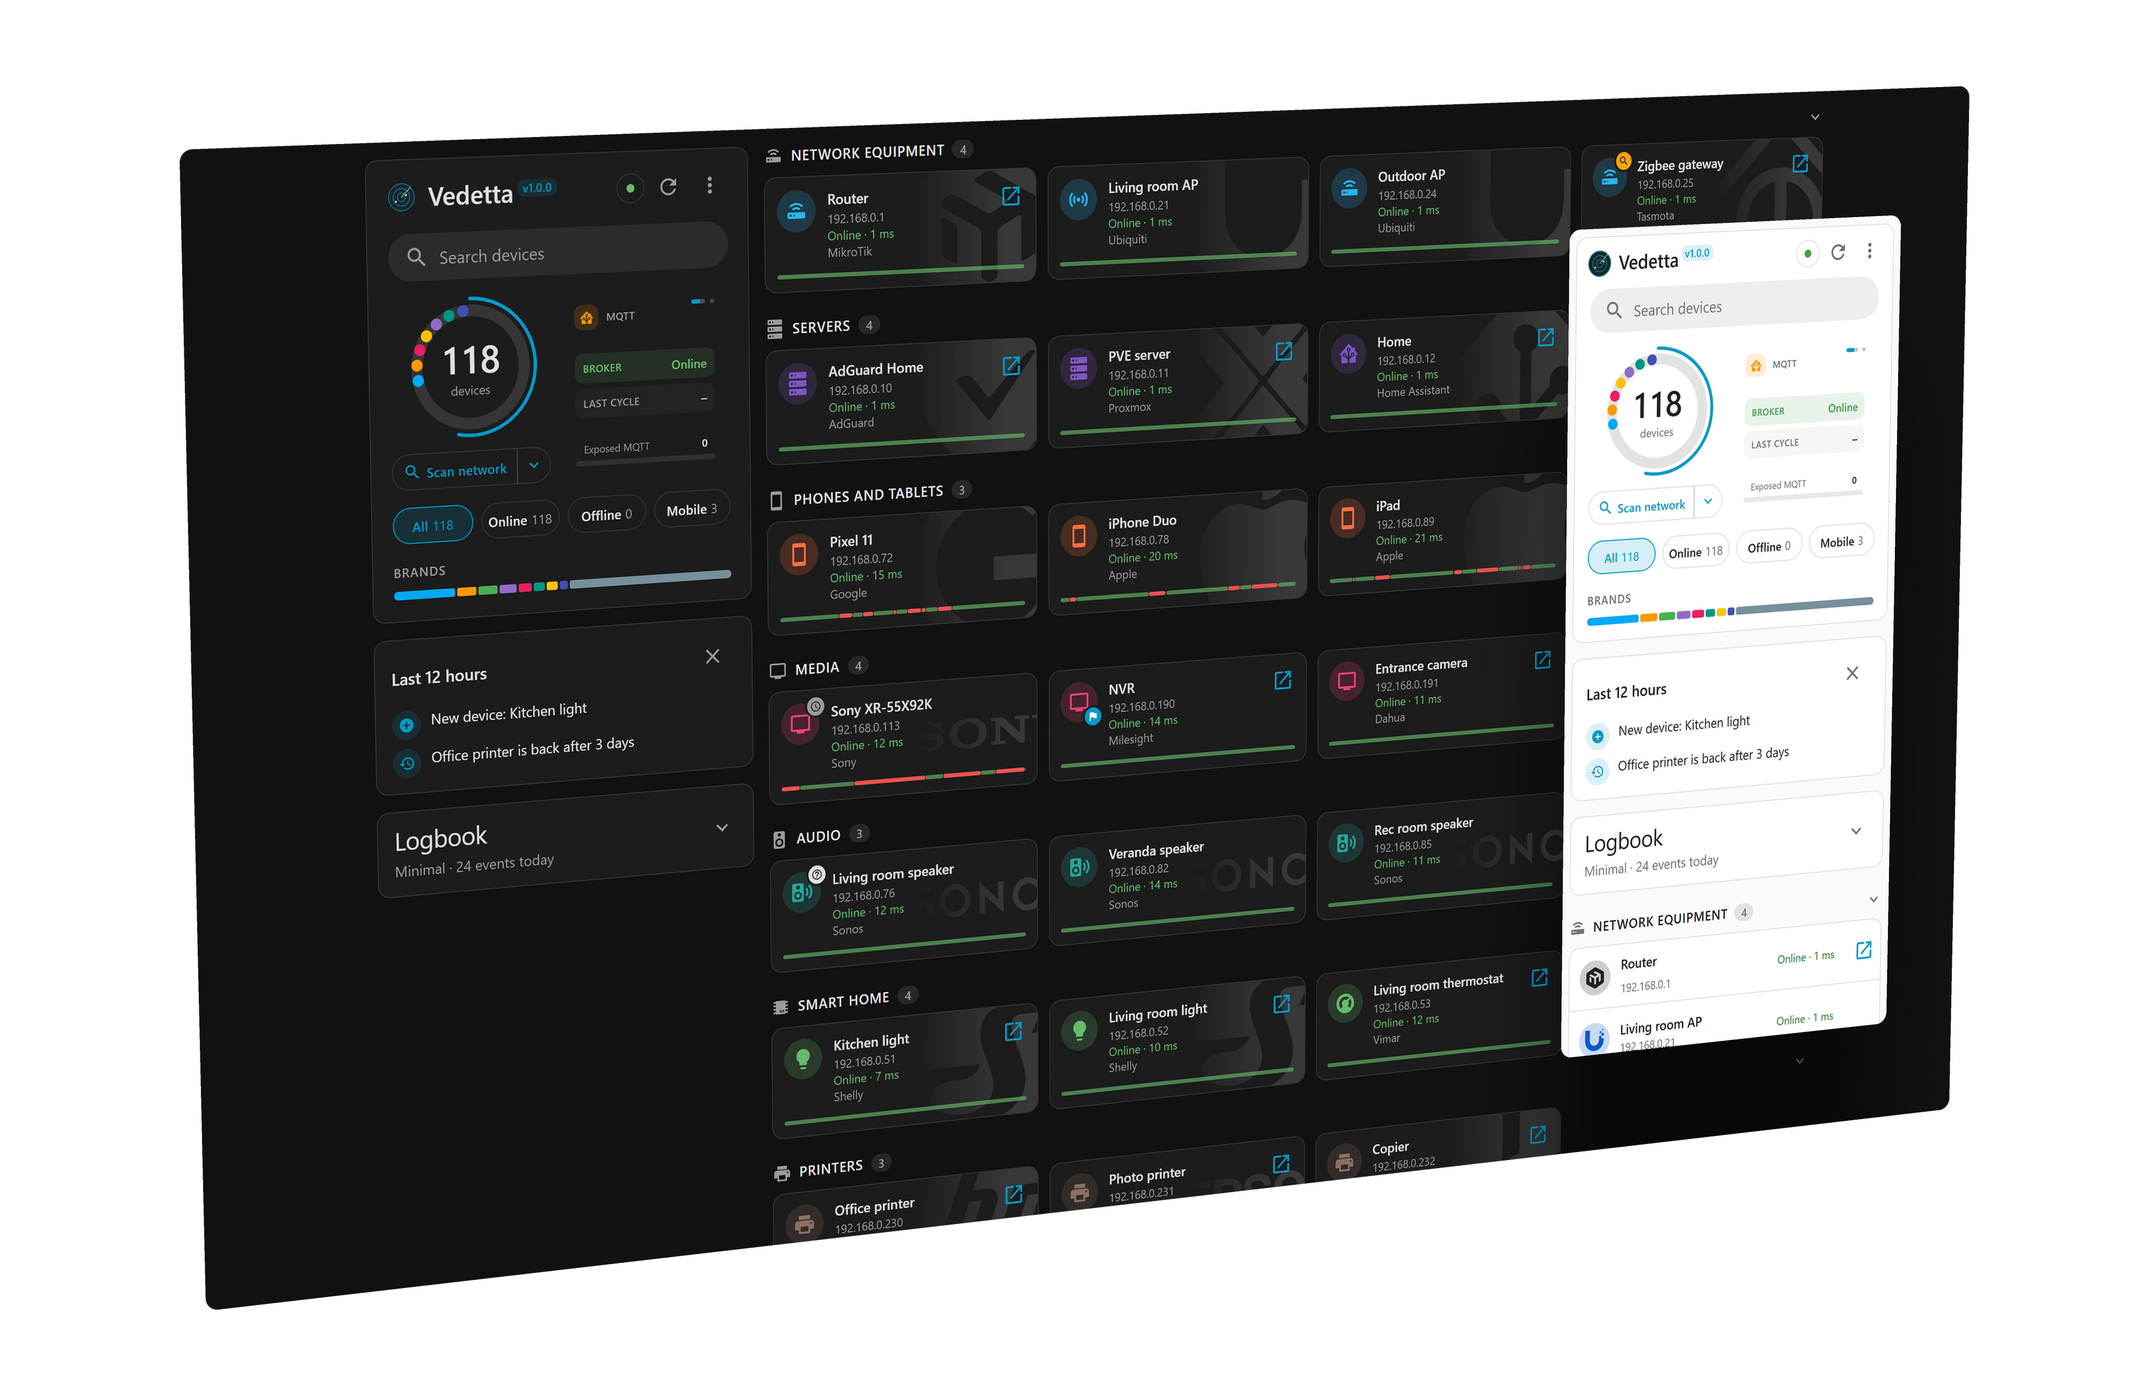
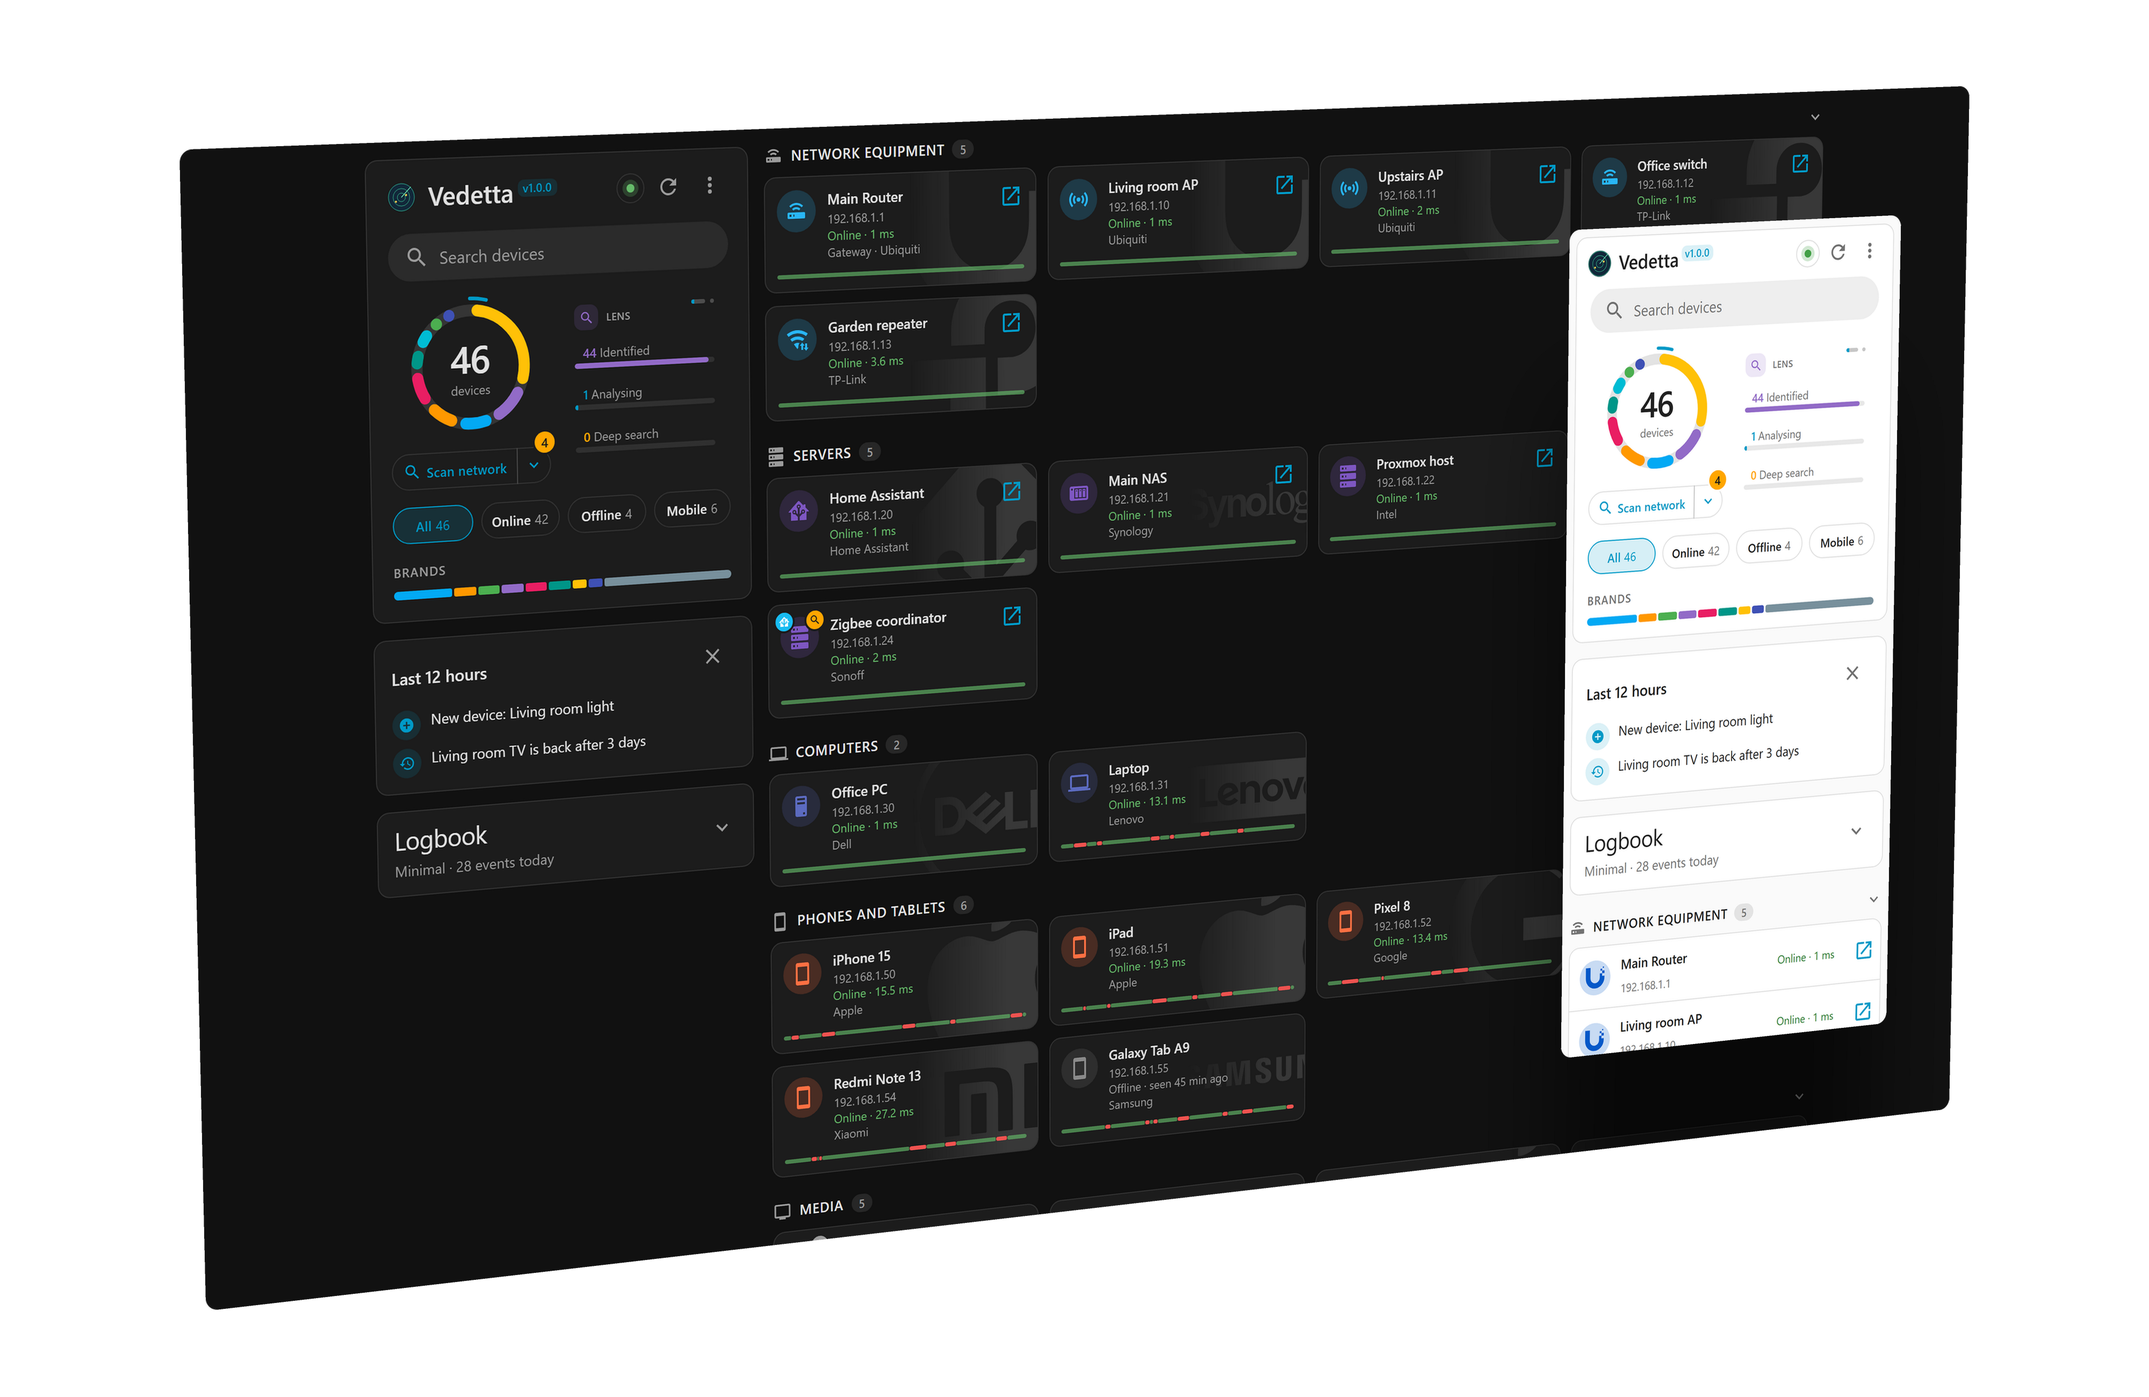
docs(release): 1.0.0 changelog, roadmap row, version badge, a credible home in the hero picture and the 1.0 front page

diff --git a/README.md b/README.md
@@ -2,22 +2,26 @@
 
 <picture><source media="(prefers-color-scheme: dark)" srcset="docs/images/radar-dark.svg"><img src="docs/images/radar-light.svg" alt="Vedetta: your router sees addresses, Vedetta sees devices. A radar finds and names the devices of every network and VLAN, and checks the health of the network" width="100%"></picture>
 
-**A Home Assistant app that finds, names and follows every device on your network, and keeps an eye on its health.**
+**The Home Assistant app that finds and follows every device on your network and your VLANs, and tells your phone when one goes away.**
 
-<a href="docs/INSTALLATION.md"><img src="https://img.shields.io/badge/Home%20Assistant-OS%20%7C%20Supervised-03a9f4?style=for-the-badge&logo=homeassistant&logoColor=white" alt="Home Assistant" height="20"></a> <a href="vedetta/CHANGELOG.md"><img src="https://img.shields.io/badge/version-0.13.2-43a047?style=for-the-badge" alt="Version" height="20"></a> <a href="LICENSE"><img src="https://img.shields.io/badge/license-MIT-607d8b?style=for-the-badge" alt="License" height="20"></a> <a href="https://scorecard.dev/viewer/?uri=github.com/Sived80/vedetta"><img src="https://api.scorecard.dev/projects/github.com/Sived80/vedetta/badge?style=for-the-badge" alt="OpenSSF Scorecard" height="20"></a> <a href="https://sived80.github.io/vedetta/"><img src="https://img.shields.io/badge/%F0%9F%8C%90%20Live%20Demo-try%20it%20in%20your%20browser-ff9800?style=for-the-badge" alt="Live Demo" height="20"></a>
+<a href="docs/INSTALLATION.md"><img src="https://img.shields.io/badge/Home%20Assistant-OS%20%7C%20Supervised-03a9f4?style=for-the-badge&logo=homeassistant&logoColor=white" alt="Home Assistant" height="20"></a> <a href="vedetta/CHANGELOG.md"><img src="https://img.shields.io/badge/version-1.0.0-43a047?style=for-the-badge" alt="Version" height="20"></a> <a href="LICENSE"><img src="https://img.shields.io/badge/license-MIT-607d8b?style=for-the-badge" alt="License" height="20"></a> <a href="https://scorecard.dev/viewer/?uri=github.com/Sived80/vedetta"><img src="https://api.scorecard.dev/projects/github.com/Sived80/vedetta/badge?style=for-the-badge" alt="OpenSSF Scorecard" height="20"></a> <a href="https://sived80.github.io/vedetta/"><img src="https://img.shields.io/badge/%F0%9F%8C%90%20Live%20Demo-try%20it%20in%20your%20browser-ff9800?style=for-the-badge" alt="Live Demo" height="20"></a>
 
-**[Live demo](https://sived80.github.io/vedetta/) · [Install](#install) · [What's new](vedetta/CHANGELOG.md) · [Docs](#docs)**
-
-🌐 **[Live demo](https://sived80.github.io/vedetta/)**: 39 household devices in your browser, nothing to install.
-
-<a href="docs/PRIVACY.md"><img src="docs/images/icon-no-cloud.svg" alt="No cloud" title="No cloud" width="96"><img src="docs/images/icon-no-accounts.svg" alt="No accounts" title="No accounts" width="96"><img src="docs/images/icon-no-telemetry.svg" alt="No telemetry" title="No telemetry" width="96"><img src="docs/images/icon-read-only.svg" alt="Read-only access to Home Assistant by default" title="Read-only access to Home Assistant by default: it writes only when you turn on alerts" width="96"><img src="docs/images/icon-masked-exports.svg" alt="Exports masked before they are created" title="Exports masked before they are created" width="96"><img src="docs/images/icon-never-logs-in.svg" alt="Never logs in to your devices" title="Never logs in to your devices or tries a password; SNMP reads your router only with the community you write" width="96"></a>
+<a href="docs/PRIVACY.md"><img src="docs/images/icon-no-cloud.svg" alt="No cloud" title="No cloud: everything stays in your home" width="96"><img src="docs/images/icon-no-accounts.svg" alt="No accounts" title="No accounts: nothing to sign up for" width="96"><img src="docs/images/icon-no-telemetry.svg" alt="No telemetry" title="No telemetry: nothing is sent out" width="96"><img src="docs/images/icon-read-only.svg" alt="Read-only access to Home Assistant" title="Read-only access to Home Assistant: it writes only when you turn on alerts" width="96"><img src="docs/images/icon-masked-exports.svg" alt="Exports masked before they are created" title="Exports masked before they are created" width="96"><img src="docs/images/icon-never-logs-in.svg" alt="Never logs in to your devices" title="Never logs in to your devices or tries a password; SNMP reads your router only with the community you write" width="96"></a>
 
 </div>
 
-<table width="100%">
-<tr><td width="33%"><b>Names every device</b><br>Name, brand, model, type. Your names are never overwritten.</td><td width="33%"><b>Follows it, not its address</b> · <i>new</i><br>A new address keeps the same card.</td><td width="33%"><b>Its own web page</b><br>One tap to the device's page.</td></tr>
-<tr><td><b>Network doctor</b><br>Conflicts, drops, restarts, a slow router.</td><td><b>Every network and VLAN</b> · <i>new</i><br>What it sees on each, and how to see more.</td><td><b>Shows its work</b><br>Every clue behind a name. Doubt stays doubt.</td></tr>
-</table>
+## See it
+
+<p align="center"><img src="docs/images/hero.png" alt="Vedetta dashboard on a computer in tile view, dark theme, with the phone list view in light theme in front of it" width="100%"></p>
+<p align="center"><sub>Tiles or list · light or dark · computer or phone · <a href="https://sived80.github.io/vedetta/">Live demo</a>, 46 household devices, nothing to install</sub></p>
+
+Also inside: sleeping phones remembered · each device's own web page, one tap away · three search levels, you choose the risk · your device list as CSV or JSON · Home Assistant events and optional MQTT. [How it works](docs/HOW_IT_WORKS.md)
+
+## Tested
+
+<picture><source media="(prefers-color-scheme: dark)" srcset="docs/images/testing-numbers-dark.svg"><img src="docs/images/testing-numbers-light.svg" alt="400+ automatic tests, 4,000+ hours of real home networks, 150+ real devices, 30+ network scenarios" width="100%"></picture>
+
+Real exports replayed and a virtual LAN, every release. Images built and signed on GitHub, checkable by anyone. [How](docs/TESTING.md)
 
 ## How it recognizes a device
 
@@ -25,40 +29,45 @@ Many weak clues, weighed together. A repeated fact counts once.
 
 <p align="center"><img src="docs/images/how-it-works.svg" alt="Ten weak clues are fused by family into name, brand, model, category and area; your own choice is never overwritten, and debug mode shows the reason" width="100%"></p>
 
-Sources, weights and certainty bars: [Recognition](docs/RECOGNITION.md).
+Sources, weights and certainty bars, all in the open: [Recognition](docs/RECOGNITION.md).
 
-## See it
+## What it does
 
-<p align="center"><img src="docs/images/hero.png" alt="Vedetta dashboard on a computer in tile view, dark theme, with the phone list view in light theme in front of it" width="100%"></p>
-<p align="center"><sub>Tiles or list · light or dark · computer or phone · <a href="https://sived80.github.io/vedetta/">Live demo</a></sub></p>
+**Every network, every VLAN.** The networks behind your router, tried before you add them, checked every 15 minutes.
 
-Also inside: sleeping phones remembered · presence and latency history · three search levels, you choose the risk · Home Assistant and optional MQTT. [How it works](docs/HOW_IT_WORKS.md)
+**Your phone knows first.** When a device goes away, and when it is back. Never a "back" without a real "gone".
+
+**30 days of memory.** Presence, link quality and the names each device had. The last 12 hours at a glance.
+
+**It follows the device, not the address.** A new address or a new private MAC: still the same card.
+
+**A doctor for your network.** Duplicate addresses, drops, restarts, a slow router.
+
+**It watches, never touches.** It never logs in to a device and never tries a password.
+
+And of course it names every device: name, brand, model and type, with every clue in the open. [How it recognizes a device](#how-it-recognizes-a-device)
 
 ## Install
-
-1. **Add** the repository:<br><a href="https://my.home-assistant.io/redirect/supervisor_add_addon_repository/?repository_url=https%3A%2F%2Fgithub.com%2FSived80%2Fvedetta"><img src="docs/images/button-add.svg" alt="Add to my Home Assistant" height="40"></a>
-2. **Install**: find **Vedetta** in the App store.
-3. **Start**: press **Start**, then **Scan network**.
-
-Or add `https://github.com/Sived80/vedetta` by hand in the App store. [Step by step](docs/INSTALLATION.md)
-
-> [!NOTE]
-> Needs **Home Assistant OS** or **Supervised**. *Container* and *Core* have no App store.
 
 > [!IMPORTANT]
 > **Give it a day or two**: phones sleep and names are announced now and then. [Why](docs/TROUBLESHOOTING.md)
 
+> [!NOTE]
+> Needs **Home Assistant OS** or **Supervised**. *Container* and *Core* have no App store.
+
+**1. Add** the repository, or add `https://github.com/Sived80/vedetta` by hand in the App store.<br>
+<a href="https://my.home-assistant.io/redirect/supervisor_add_addon_repository/?repository_url=https%3A%2F%2Fgithub.com%2FSived80%2Fvedetta"><img src="docs/images/button-add.svg" alt="Add to my Home Assistant" height="40"></a>
+
+**2. Install**: find **Vedetta** in the App store.<br>
+**3. Start**: press **Start**, then **Scan network**. [Step by step](docs/INSTALLATION.md)
+
+**A device is wrong or unknown?** Every report becomes a fix, and you can [teach it a device](docs/DEVELOPMENT.md).<br>
+<a href="https://github.com/Sived80/vedetta/issues/new/choose"><img src="docs/images/button-report.svg" alt="Report a device" height="40"></a>
+
+**Free and open source, and it stays that way.** A coffee keeps it going.<br>
+<a href="https://ko-fi.com/B8D228NOWZ"><img src="docs/images/button-kofi.svg" alt="Support on Ko-fi" height="40"></a>
+
 ⭐ Names your devices right? A star helps others find it. *Watch › Custom › Releases* tells you about new versions.
-
-<a href="https://github.com/Sived80/vedetta/issues/new/choose"><img src="docs/images/button-report.svg" alt="Report a device" height="40"></a><br>
-A device is wrong or unknown? Every report becomes a fix. Want to do more? [Teach it a device](docs/DEVELOPMENT.md)
-
-<a href="https://ko-fi.com/B8D228NOWZ"><img src="docs/images/button-kofi.svg" alt="Support on Ko-fi" height="40"></a><br>
-Free and open source, and it stays that way.
-
-## Tested
-
-Real exports replayed and a virtual LAN, every release. [How](docs/TESTING.md)
 
 ## Docs
 

diff --git a/docs/ROADMAP.md b/docs/ROADMAP.md
@@ -4,12 +4,13 @@ What is built, release by release, and what is planned.
 
 [← Back to the README](../README.md)
 
-**Now: version 0.13.2 · Bussola**, released in November 2026. **35 planned**. Something you need sooner? [Open an issue](https://github.com/Sived80/vedetta/issues/new/choose) and say which: it moves it up.
+**Now: version 1.0.0 · Orizzonte**, released in November 2026. **34 planned**. Something you need sooner? [Open an issue](https://github.com/Sived80/vedetta/issues/new/choose) and say which: it moves it up.
 
 ## Release by release
 
 | Version | Date | What came with it |
 |---|---|---|
+| **1.0.0 · Orizzonte** | 20 Nov | Networks behind the router (VLANs), pinged every 15 minutes · alerts on your phone when a device goes away and when it is back · 30 days of memory per device, the last 12 hours at a glance, the device list as CSV or JSON · a card follows its device by its MAC · one machine on two networks, side by side · *Scan network* lists every device without a card (#35) |
 | **0.13.2 · Bussola** | 13 Nov | The page opens behind a reverse proxy (issue #48) |
 | **0.13.1 · Bussola** | 8 Nov | Scan network works on large networks (/8, /16) · no borrowed presence from the router's MAC · a change of network followed within a minute, without a restart · fewer packets |
 | **0.13.0 · Ascolto** | 7 Nov | Devices silent to a broadcast count as present · ignored devices left alone by the DNS check · no brands borrowed from an integration's placeholder model · mDNS services announced later are seen · clearer first steps with an empty list |
@@ -38,8 +39,8 @@ A ☐ is an idea with a place, not a promise of a date: Vedetta is a one-person,
 
 - ☐ Radar of new devices: "3 new since your last visit" with *it's mine / ignore*
 - ☐ Clear-text services (telnet, FTP, SMB1) with severity per port
-- ☐ Passive anomalies: second DHCP server, IP with two MACs, MAC that changes IP
-- ☐ Device silent for days; IP changes and conflicts
+- ☐ Passive anomalies: second DHCP server, MAC that changes IP
+- ☐ IP changes over time
 - ☐ Every alert says why, what to do, and has *this is normal for me*
 - ☐ Network health indicator with a public, explained formula
 - ☐ TLS certificates close to expiry (self-signed shown as information only)
@@ -52,7 +53,7 @@ A ☐ is an idea with a place, not a promise of a date: Vedetta is a one-person,
 <summary><b>🕰 History</b> · 5</summary>
 
 - ☐ Event timeline (arrivals, departures, IP and port changes)
-- ☐ Before/after comparison between two scans, and "overnight" summary
+- ☐ Before/after comparison between two scans
 - ☐ Time machine: snapshots and differences
 - ☐ 90-bar status strips with latency sparklines
 - ☐ Presence heatmap (7×24), local and opt-in only
@@ -70,12 +71,11 @@ A ☐ is an idea with a place, not a promise of a date: Vedetta is a one-person,
 </details>
 
 <details>
-<summary><b>🏠 Home Assistant</b> · 7</summary>
+<summary><b>🏠 Home Assistant</b> · 6</summary>
 
-- ☐ `vedetta_new_device` event with brand, model and reason
-- ☐ Native notification on a service you choose
+- ☐ Brand, model and reason in the `vedetta_new_device` event
 - ☐ Ready-made blueprints (new device, critical device offline)
-- ☐ More aggregate sensors (online, new today, unknown)
+- ☐ More aggregate sensors (new today, unknown)
 - ☐ Weekly digest notification
 - ☐ "This device is also in HA as …" on the card
 - ☐ Repairs and a custom integration *(later)*
@@ -95,7 +95,7 @@ A ☐ is an idea with a place, not a promise of a date: Vedetta is a one-person,
 <details>
 <summary><b>💡 Original ideas</b> · 6</summary>
 
-- ☐ Inventory export (CSV, JSON, Markdown) with an anonymize option
+- ☐ Inventory export as Markdown
 - ☐ Device identity card: first/last seen, notes, room, warranty
 - ☐ "Ask Vedetta" with fixed Assist sentences, no language model
 - ☐ "If this repeater drops, who disappears?"

diff --git a/vedetta/CHANGELOG.md b/vedetta/CHANGELOG.md
@@ -1,5 +1,17 @@
 # Changelog
 
+## 1.0.0 · Orizzonte
+**Orizzonte** is Italian for *horizon*: Vedetta now sees past the router, remembers, and tells you when something goes quiet.
+
+- **Networks behind the router.** Add a VLAN or another subnet, try it first, give it a name. Vedetta pings it every 15 minutes and finds the new devices there. Turn on *Ports* and it reads their ports and model too; with SNMP on the router, their MACs.
+- **Alerts.** Ring the bell on a card: if the device goes away, a phone gets a notification, and another one when it is back. Recipients go in line, each after its own wait. *Send a test* checks it all. Nothing is written to Home Assistant until you turn it on.
+- **Memory.** Each card shows its last 30 days, the quality of its link and the names it had. A new card sums up the last 12 hours. The device list can be downloaded as CSV or JSON, with MACs and IPs hidden if you like.
+- **A card follows its device.** Presence comes from the device's own MAC, also when its address changes or a phone rotates its private MAC. One machine on two networks (your router, Home Assistant on a VLAN) gets the same name on both cards, side by side.
+- **Every device gets in.** *Scan network* lists every device without a card, even one that was on at install and ignores broadcasts (#35).
+- **Fixes.** Supervisor ingress errors on the live stream (#55), a stale name from Home Assistant no longer decides the brand (#36), encrypted export greyed out on a long history, large networks checked a slice at a time. The export for the developer now also hides every name a device has had and secrets in web addresses.
+
+**Thank you** to everyone who shared an export, tested on VLANs and reported issues: this release is built on them.
+
 ## 0.13.2 · Bussola
 A small fix for **Bussola**.
 - **The page opens behind a reverse proxy.** Behind a proxy that adds its own security policy, or rewrites the scripts of a page, Vedetta showed `js.ha.error.title` instead of your devices. The page no longer needs inline scripts to start (issue #48).
